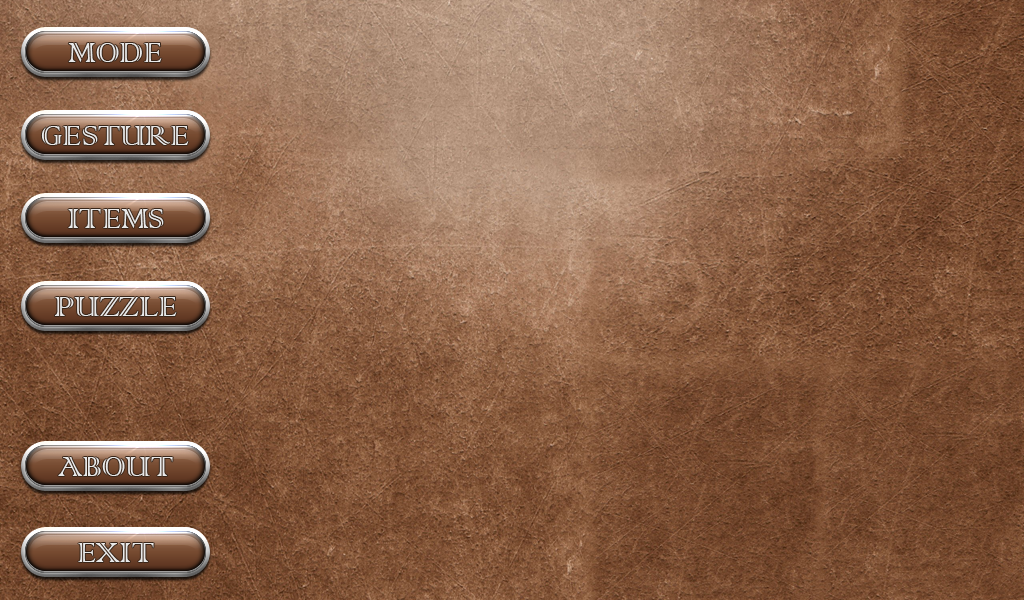
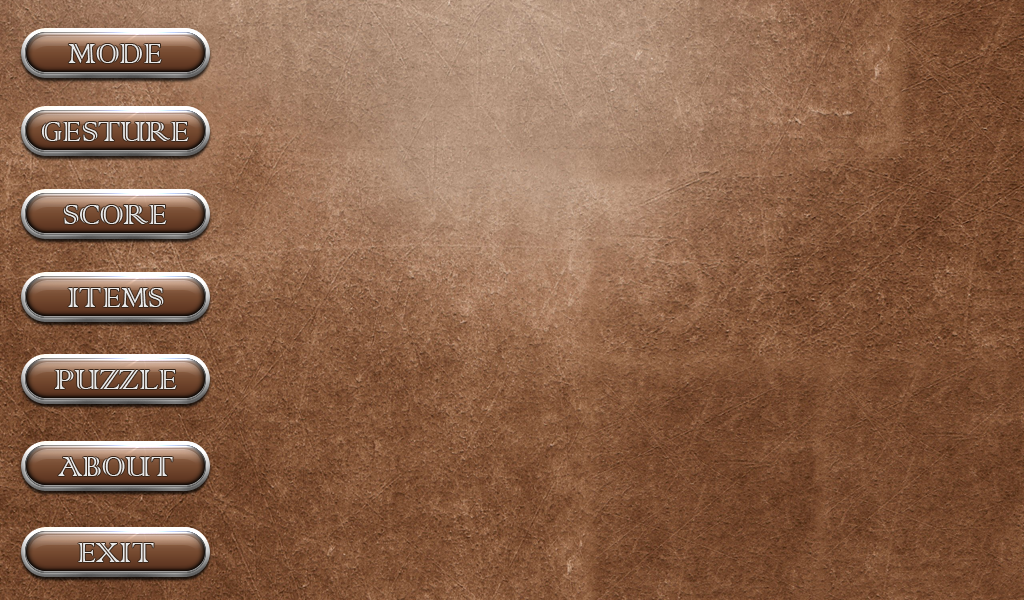
Some comments and help.

Changed region(s): [[0.0, 0.03, 0.2188, 0.42], [0.0, 0.45, 0.2188, 0.69], [0.1875, 0.09, 0.2188, 0.12]]

diff --git a/helpitem.cpp b/helpitem.cpp
@@ -10,7 +10,7 @@
 #define BUTTON_LOGICAL_WIDTH  190
 #define BUTTON_LOGICAL_HEIGHT 50
 
-const static int helpItemCount = 2;
+const static int helpItemCount = 6;
 
 QVector<QString> mainPartBackGroundPaths;
 QVector<QVector<QPointF> > mainPartAnimCenterss;
@@ -19,6 +19,18 @@ QVector<QVector<QString> > mainPartAnimPathss;
 void initThingsAboutmainPart()
 {
   mainPartBackGroundPaths.push_back(":/images/help/mode.png");
+  mainPartAnimCenterss.push_back(QVector<QPointF>());
+  mainPartAnimPathss.push_back(QVector<QString>());
+  mainPartBackGroundPaths.push_back(":/images/help/gesture.png");
+  mainPartAnimCenterss.push_back(QVector<QPointF>());
+  mainPartAnimPathss.push_back(QVector<QString>());
+  mainPartBackGroundPaths.push_back(":/images/help/score.png");
+  mainPartAnimCenterss.push_back(QVector<QPointF>());
+  mainPartAnimPathss.push_back(QVector<QString>());
+  mainPartBackGroundPaths.push_back(":/images/help/items.png");
+  mainPartAnimCenterss.push_back(QVector<QPointF>());
+  mainPartAnimPathss.push_back(QVector<QString>());
+  mainPartBackGroundPaths.push_back(":/images/help/puzzle.png");
   mainPartAnimCenterss.push_back(QVector<QPointF>());
   mainPartAnimPathss.push_back(QVector<QString>());
   mainPartBackGroundPaths.push_back(":/images/help/about.png");

diff --git a/achievementitem.h b/achievementitem.h
@@ -36,33 +36,60 @@ public:
   virtual double width();
   virtual double height();
 
+  /**
+   * @brief Advance the description.
+   */
   inline void advanceDescription()
   {
     if (descriptionAge < DESCRIPTION_AGE_LIMIT)
       ++descriptionAge;
   }
 
+  /**
+   * @brief Lose the description.
+   */
   inline void loseDescriptionFocus()
   {descriptionAge = 0;}
 
+  /**
+   * @brief Get the age of description.
+   */
   inline int getDescriptionAge()
   {return descriptionAge;}
 
+  /**
+   * @brief Set the age of description.
+   */
   inline void setDescriptionAge(int v)
   {descriptionAge = v;}
 
+  /**
+   * @brief Get the title.
+   */
   inline QString getTitle()
   {return title;}
 
+  /**
+   * @brief Set the title.
+   */
   inline void setTitle(QString str)
   {title = str;}
 
+  /**
+   * @brief Get the description.
+   */
   inline void setDescription(QString str)
   {description = str;}
 
+  /**
+   * @brief Set the description.
+   */
   inline QString getDescription()
   {return description;}
 
+  /**
+   * @brief Set the background.
+   */
   inline void setBackground(const QPixmap& pixmap)
   {background = pixmap;}
 

diff --git a/helpitem.h b/helpitem.h
@@ -7,11 +7,20 @@
 #include <QPixmap>
 #include <QString>
 
+/**
+ * @brief A class of an item of a button in help widget.
+ */
 class HelpItem : public AbstractRectItem
 {
 public:
+  /**
+   * @brief Total items to show the help.
+   */
   static int totalItems();
 
+  /**
+   * @brief Constructor.
+   */
   HelpItem(int theIndex);
 
   virtual void paint(QPainter *painter, int width, int height, int frame);
@@ -19,8 +28,19 @@ public:
   virtual double width();
   virtual double height();
 
+  /**
+   * @brief Get the path of the background of the main part.
+   */
   QString mainPartBackGroundPath();
+
+  /**
+   * @brief Get the centers of the parts with animation.
+   */
   QVector<QPointF> mainPartAnimCenters();
+
+  /**
+   * @brief Get the paths of the parts with animation.
+   */
   QVector<QString> mainPartAnimPaths();
 
 private:

diff --git a/helpmainpartwidget.h b/helpmainpartwidget.h
@@ -9,13 +9,32 @@
 
 class QPainter;
 
+/**
+ * @brief A class to show the main part of the help.
+ */
 class HelpMainPartWidget
 {
 public:
+  /**
+   *@brief Constructor.
+   *
+   *@param background Path The path of the background of the background.
+   *@param animCenters The centers of the parts with animation.
+   *@param animPaths The paths of the parts with animation.
+   */
   HelpMainPartWidget(QString backgroundPath,
                      QVector<QPointF> animCenters,
                      QVector<QString> animPaths);
 
+
+  /**
+   *@brief Paint the main part.
+   *
+   *@param painter The painter.
+   *@param width The width.
+   *@param height The height.
+   *@param frame The index of the frame to show.
+   */
   void paint(QPainter *painter, int width, int height, int frame);
 
 private:

diff --git a/helpwidget2.cpp b/helpwidget2.cpp
@@ -31,9 +31,13 @@ HelpWidget2::HelpWidget2() :
   exitItem->setPos(QPointF(0.113, 0.92));
   myItems.push_back(exitItem);
 
-  QPointF positions[2];
+  QPointF positions[6];
   positions[0] = QPointF(0.113, 0.09);
-  positions[1] = QPointF(0.113, 0.78);
+  positions[1] = QPointF(0.113, 0.218);
+  positions[2] = QPointF(0.113, 0.358);
+  positions[3] = QPointF(0.113, 0.494);
+  positions[4] = QPointF(0.113, 0.63);
+  positions[5] = QPointF(0.113, 0.778);
 
   helpThemeItems = new HelpItem *[HelpItem::totalItems()];
   helpThemeWidgets = new HelpMainPartWidget *[HelpItem::totalItems()];

diff --git a/achievementwidget.h b/achievementwidget.h
@@ -55,7 +55,6 @@ public:
   virtual void dealReleased(QPointF mousePos, Qt::MouseButton button);
   virtual void getForcus(){}
 
-
 private:
   AbstractItem *exitItem;
 
